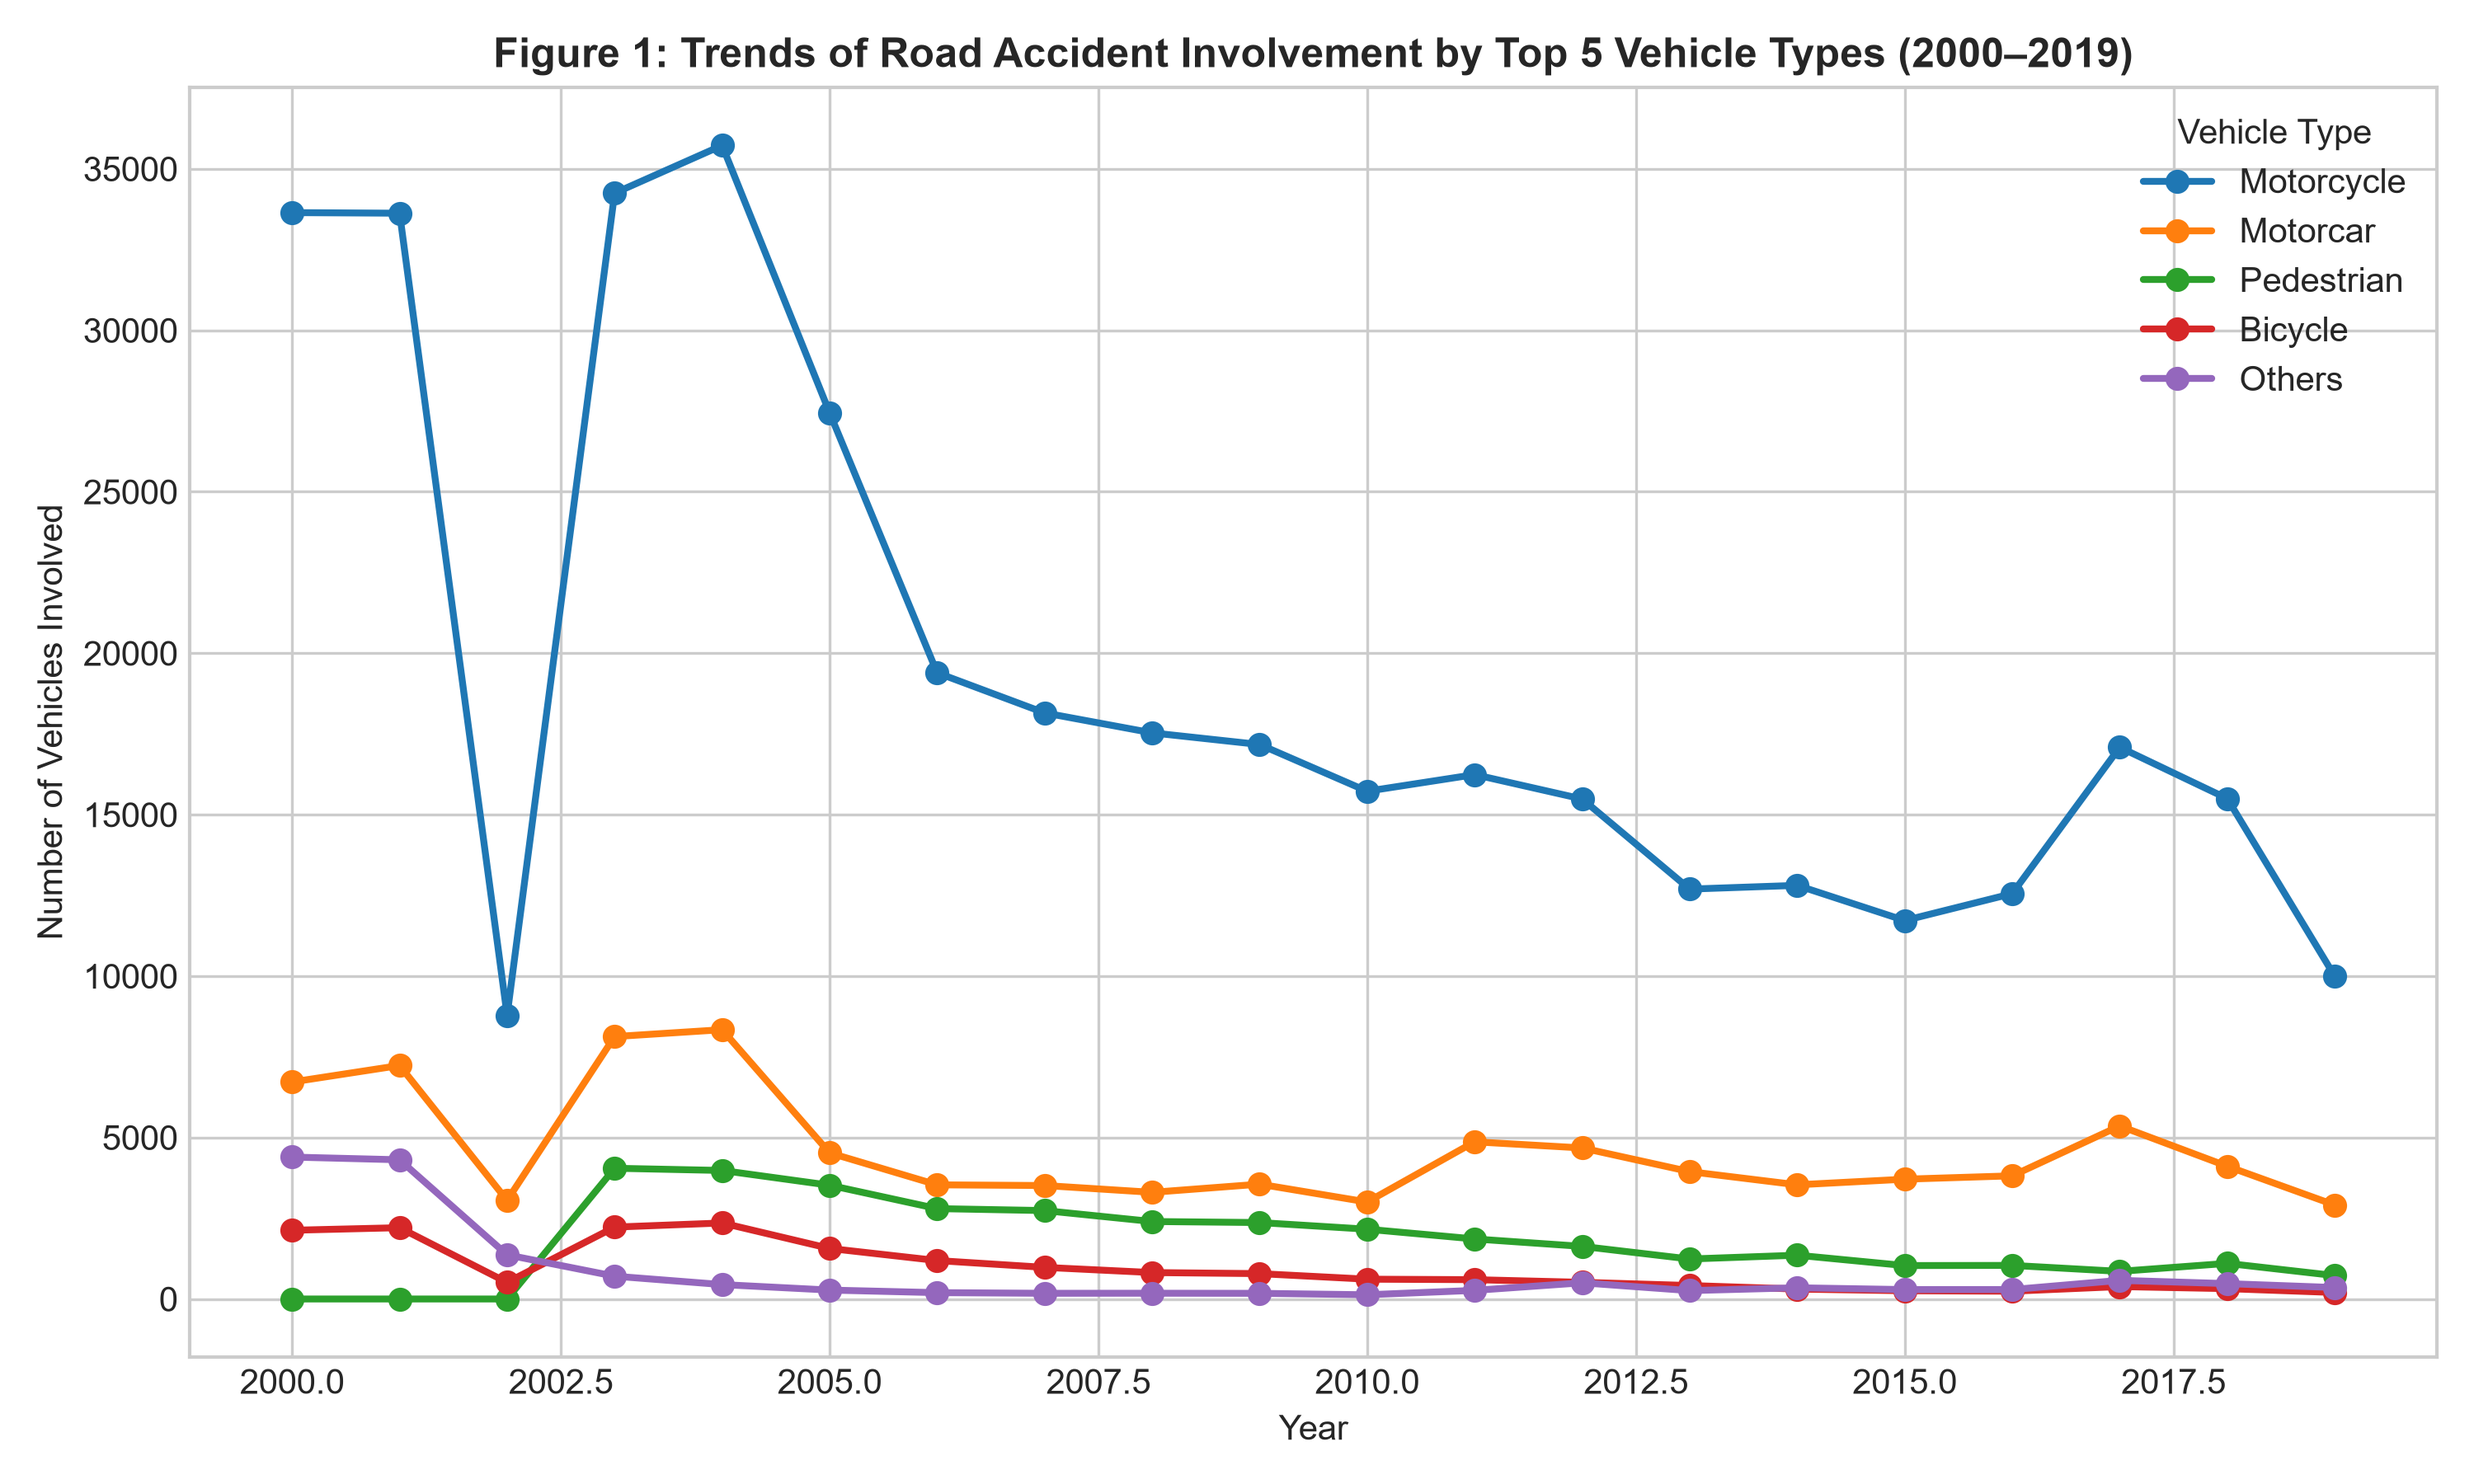
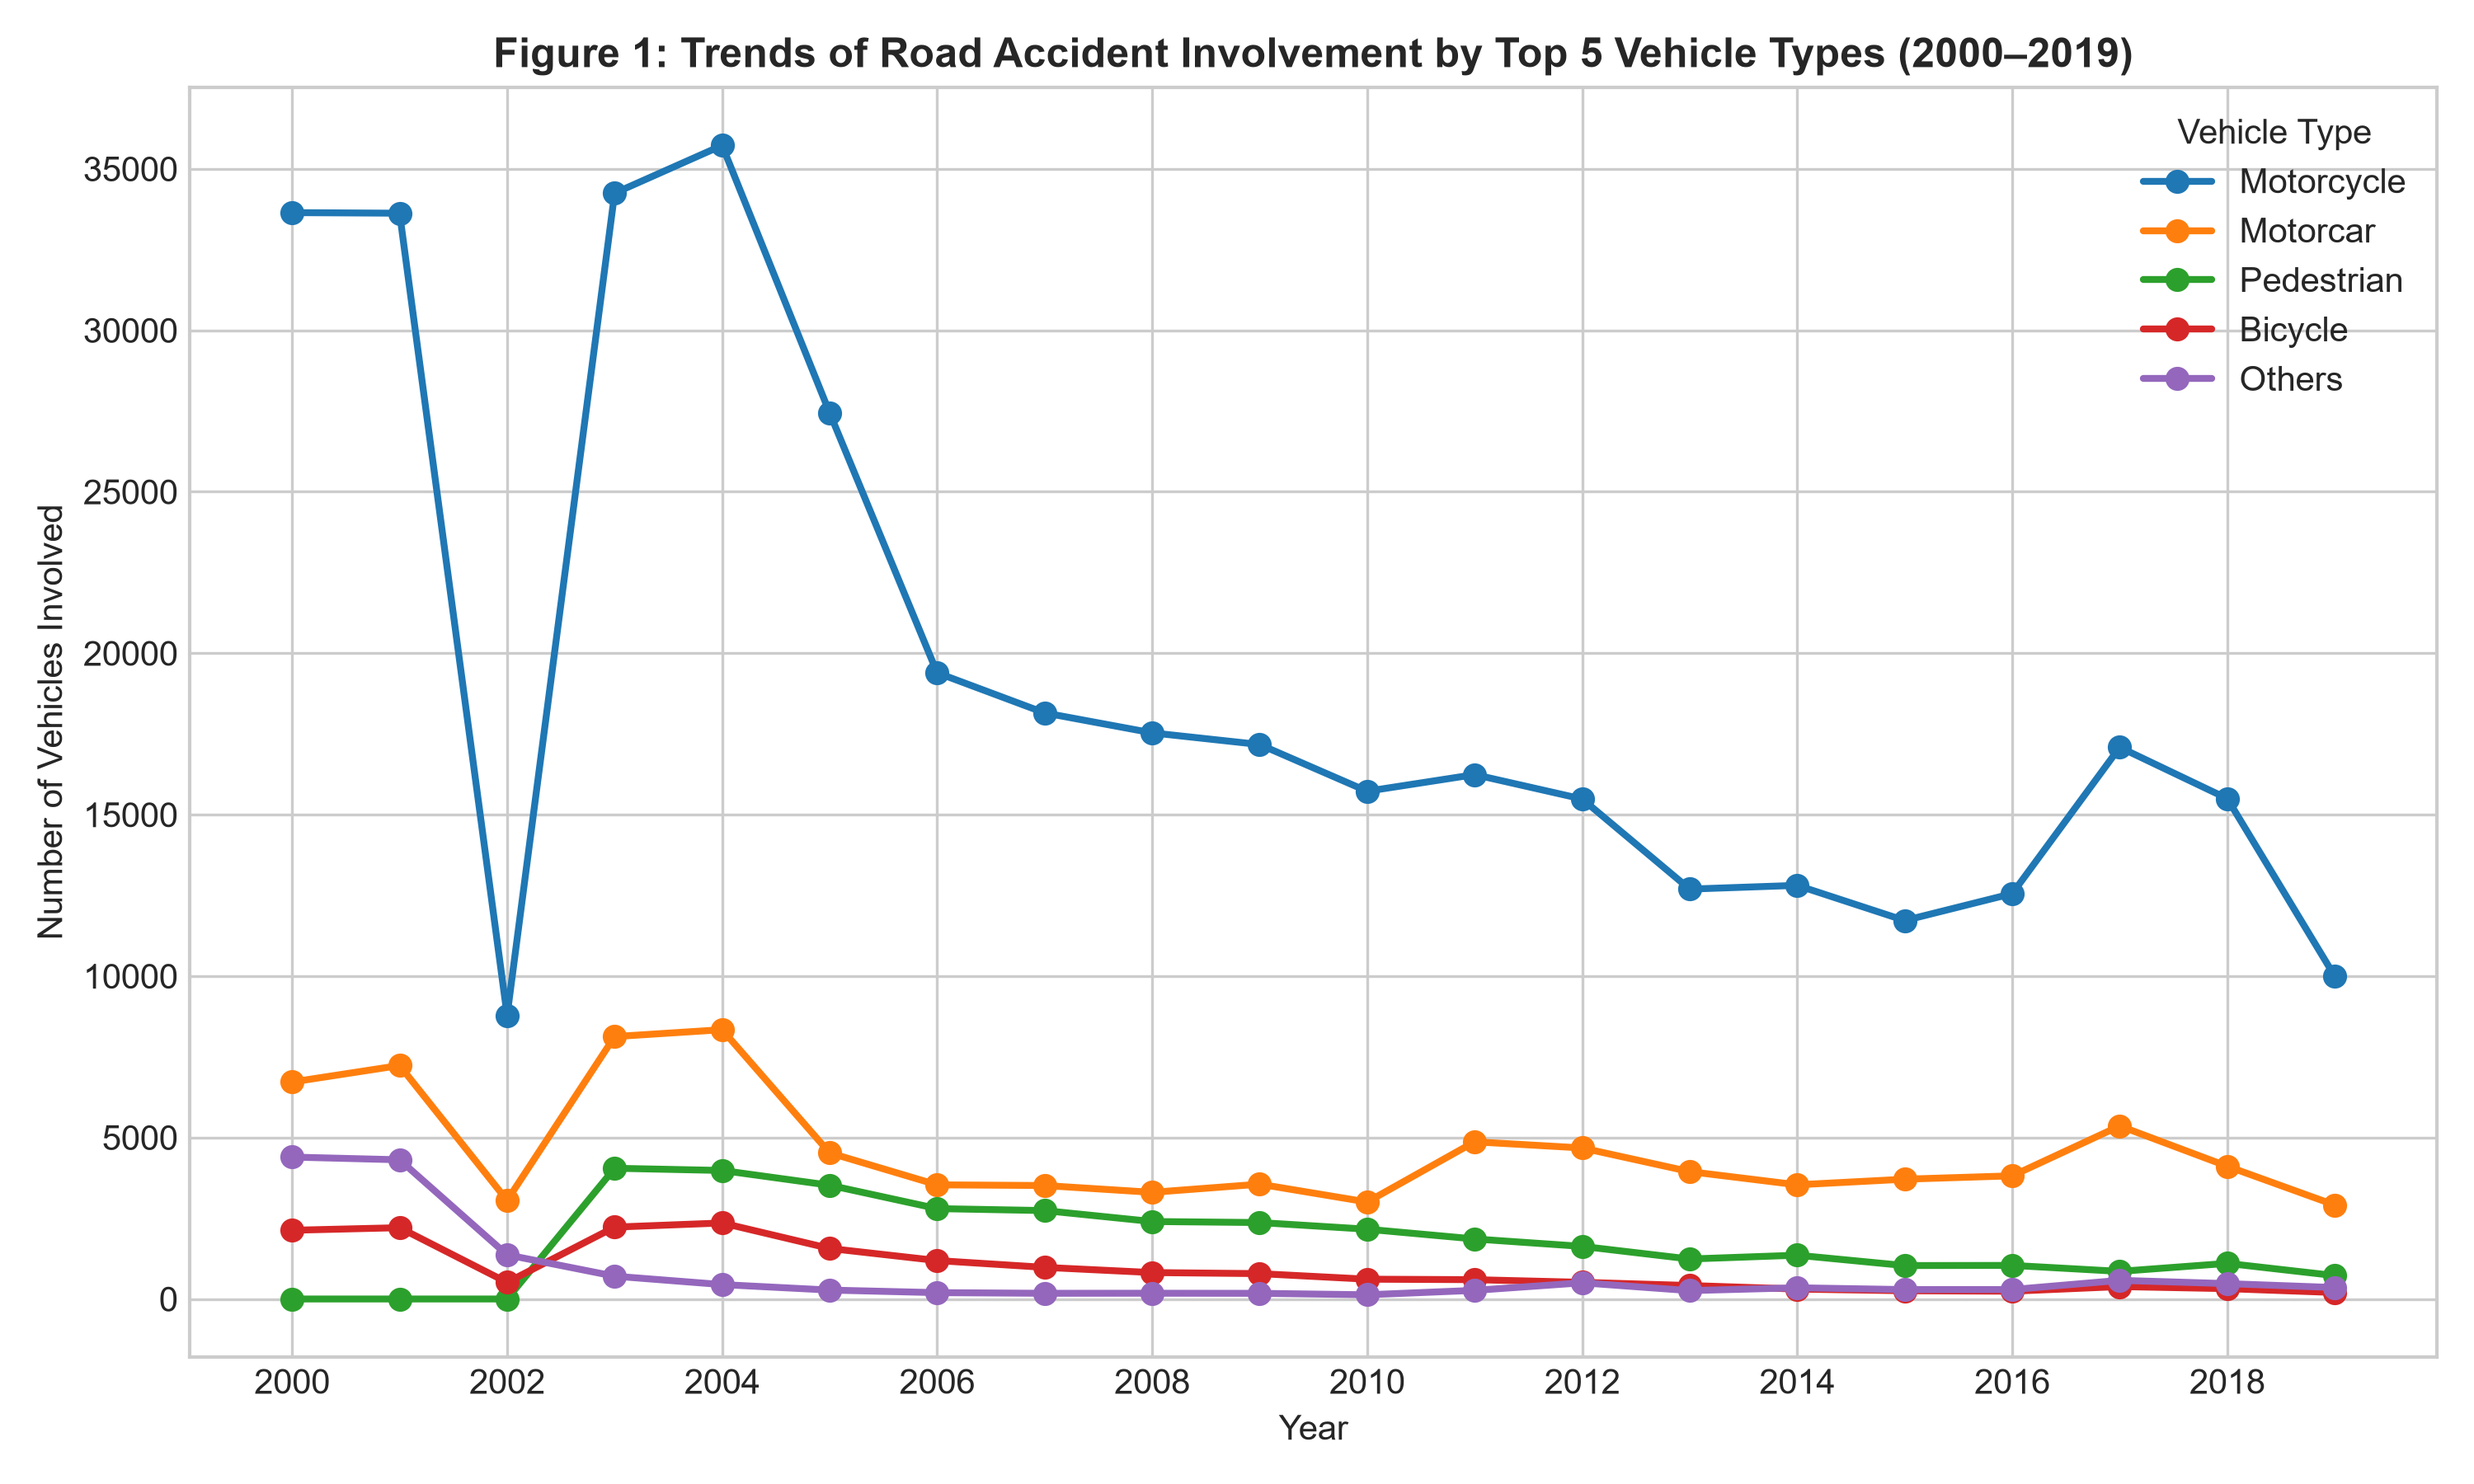
Fix: figure 1 and 2 parameter

diff --git a/Malaysian Road Accident Data.py b/Malaysian Road Accident Data.py
@@ -116,6 +116,7 @@ def process_rq1(df_veh):
     plt.xlabel('Year')
     plt.ylabel('Number of Vehicles Involved')
     plt.legend(title='Vehicle Type')
+    plt.xticks(range(2000, 2020, 2))
     plt.tight_layout()
     plt.savefig('visualizations/fig1_vehicle_trends.png')
     plt.close()
@@ -163,6 +164,7 @@ def process_rq2(df_inj, df_stat):
     lines = line1 + line2
     labels = [l.get_label() for l in lines]
     ax1.legend(lines, labels, loc='center right')
+    ax1.set_xticks(range(2000, 2020, 2))
     
     plt.title('Figure 2: Road Accident Severity Trend in Malaysia (2000–2019): Deaths vs Injuries', fontsize=12, fontweight='bold')
     plt.tight_layout()
